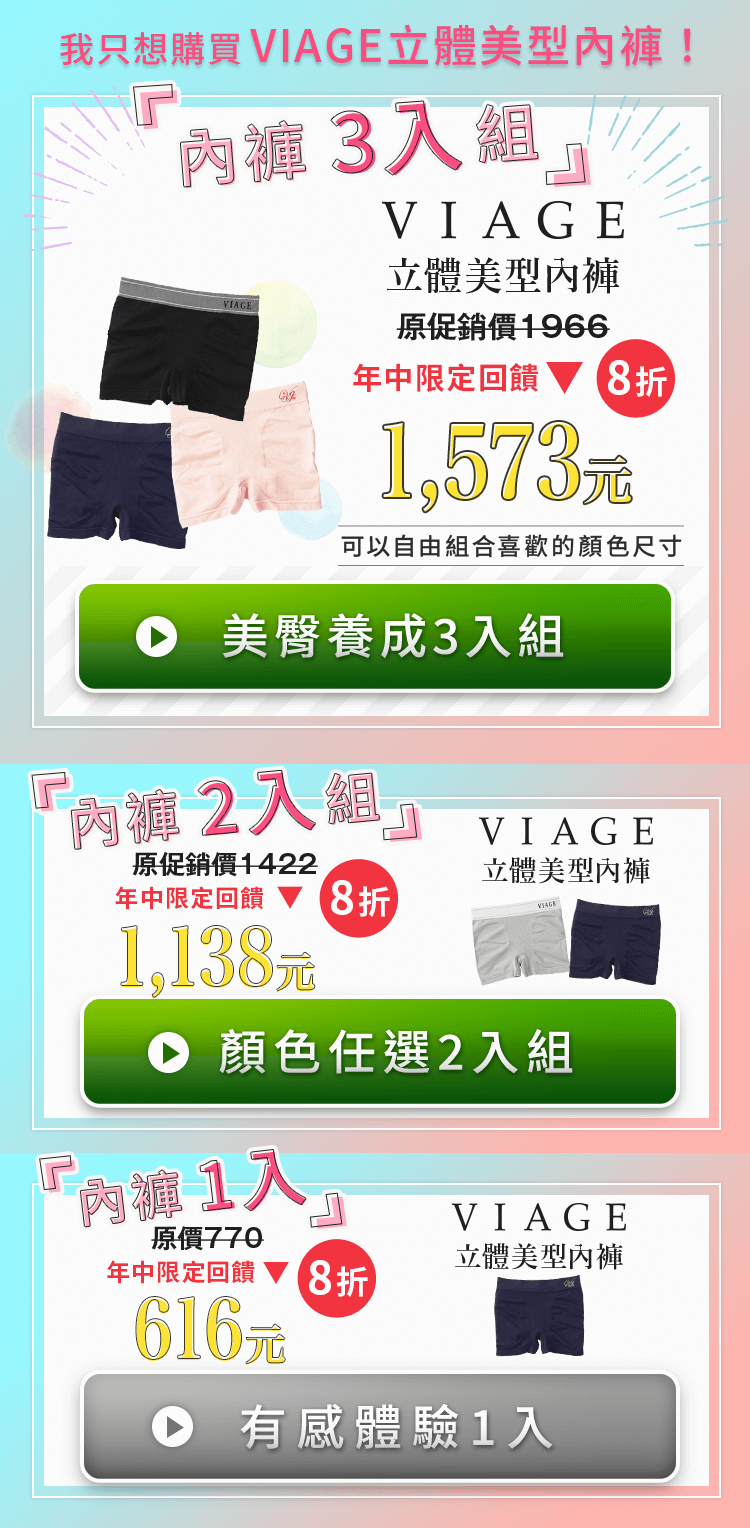
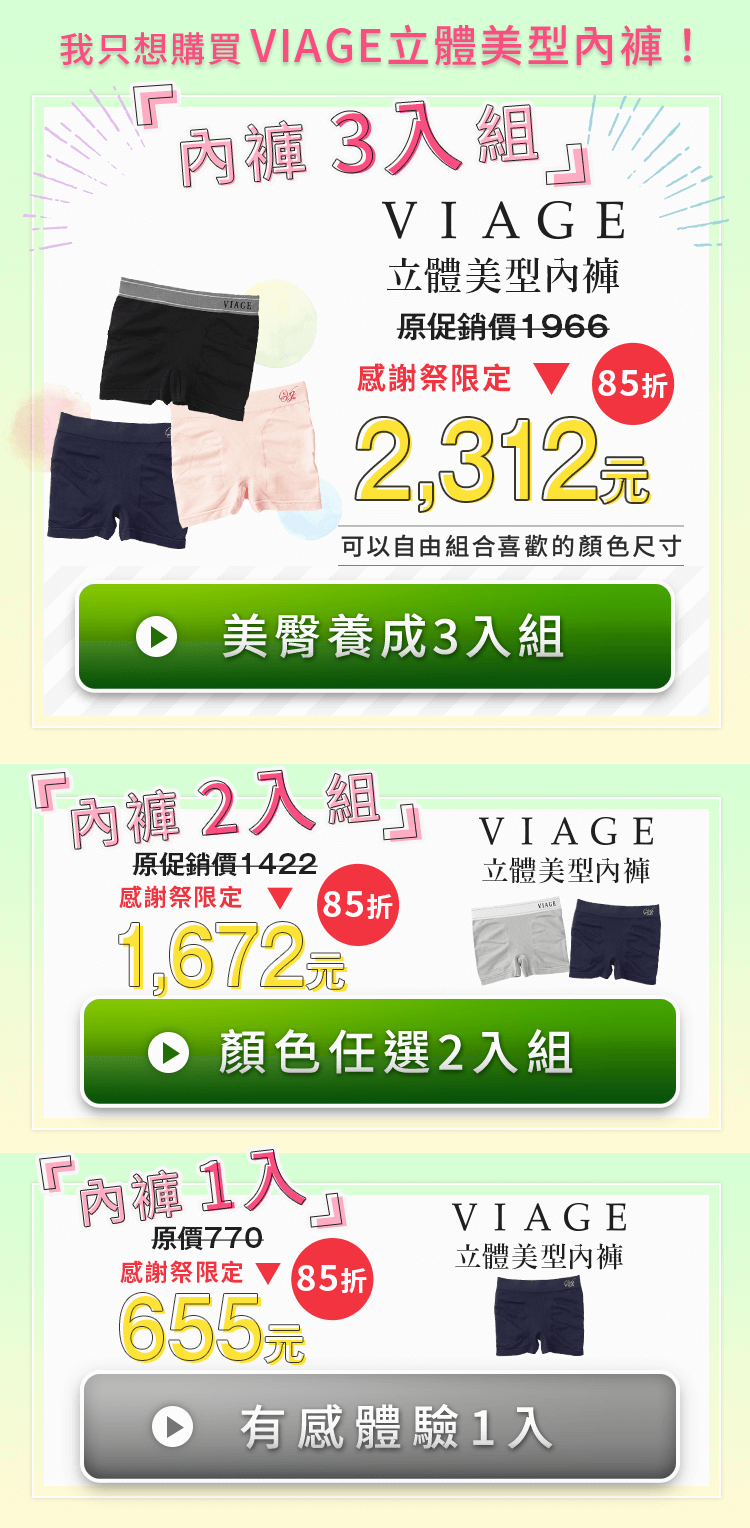
20210625_summer sale

diff --git a/index.html b/index.html
@@ -2,7 +2,7 @@
 <html>
 
 <head>
-    <title>Viage下殺8折｜年中慶內衣+內褲老顧客獨享優惠！CP值超高美胸美臀一次到位👙</title>
+    <title>Viage夏日感謝祭85折｜內衣+內褲老顧客獨享優惠！CP值超高美胸美臀一次到位👙</title>
     <meta http-equiv="Content-Type" content="text/html; charset=utf-8">
     <!-- 編集削除禁止※スマホ最適化※編集削除禁止 -->
     <meta name="viewport" content="width=device-width, initial-scale=1, maximum-scale=1, user-scalable=yes" />
@@ -162,7 +162,7 @@
 
     <!-- 編集削除禁止※ACCESS　JAVASCRIPT※編集削除禁止 -->
     <div id=acs_lp_form></div>
-    <script src=/VCommonFiles/app.min.js></script>
+    <script src="/VCommonFiles/app.min.js?ver=20210616"></script>
     <!-- 編集削除禁止※ACCESS　JAVASCRIPT※編集削除禁止 -->
 
     <!-- 網頁設計師編輯區塊 -->
